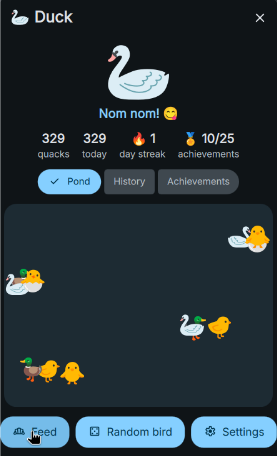
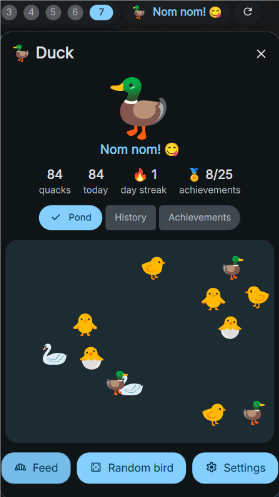
docs: lay out screenshots in 3-column tables, new feed shot
The settings screenshots were stacked because three 400 px images don't
fit side by side; they're now in an HTML table (260 px each, top
aligned, since their heights differ a lot), like the popout tabs. The
new feed shot has no cursor, shows the fixed pond and the bar above.

diff --git a/README.md b/README.md
@@ -23,9 +23,18 @@ Duck is a playground plugin: a place to try out the DMS plugin API before buildi
 
 ## Screenshots
 
-| Pond & feeding | History | Achievements |
-|:---:|:---:|:---:|
-| <img src="screenshots/popout-feed.png" width="230" alt="Popout after feeding: the duck says Nom nom"> | <img src="screenshots/popout-history.png" width="230" alt="History tab with grouped combos"> | <img src="screenshots/popout-achievements.png" width="230" alt="Achievements tab with unlock dates"> |
+<table>
+  <tr>
+    <th>Feeding (with the bar)</th>
+    <th>History</th>
+    <th>Achievements</th>
+  </tr>
+  <tr>
+    <td valign="top"><img src="screenshots/popout-feed.png" width="250" alt="The pill and the popout after feeding: the duck says Nom nom"></td>
+    <td valign="top"><img src="screenshots/popout-history.png" width="250" alt="History tab with grouped combos"></td>
+    <td valign="top"><img src="screenshots/popout-achievements.png" width="250" alt="Achievements tab with unlock dates"></td>
+  </tr>
+</table>
 
 **In the bar**: quacking, and the hover tooltip
 
@@ -40,9 +49,18 @@ Duck is a playground plugin: a place to try out the DMS plugin API before buildi
 <details>
 <summary><b>Settings page</b></summary>
 
-<img src="screenshots/settings-1.png" width="400" alt="Settings: look and quack">
-<img src="screenshots/settings-2.png" width="400" alt="Settings: mouse and notifications">
-<img src="screenshots/settings-3.png" width="400" alt="Settings: stats, achievements and reset">
+<table>
+  <tr>
+    <th>Look & quack</th>
+    <th>Mouse & notifications</th>
+    <th>Stats & reset</th>
+  </tr>
+  <tr>
+    <td valign="top"><img src="screenshots/settings-1.png" width="260" alt="Settings: look and quack"></td>
+    <td valign="top"><img src="screenshots/settings-2.png" width="260" alt="Settings: mouse and notifications"></td>
+    <td valign="top"><img src="screenshots/settings-3.png" width="260" alt="Settings: stats, achievements and reset"></td>
+  </tr>
+</table>
 
 </details>
 
